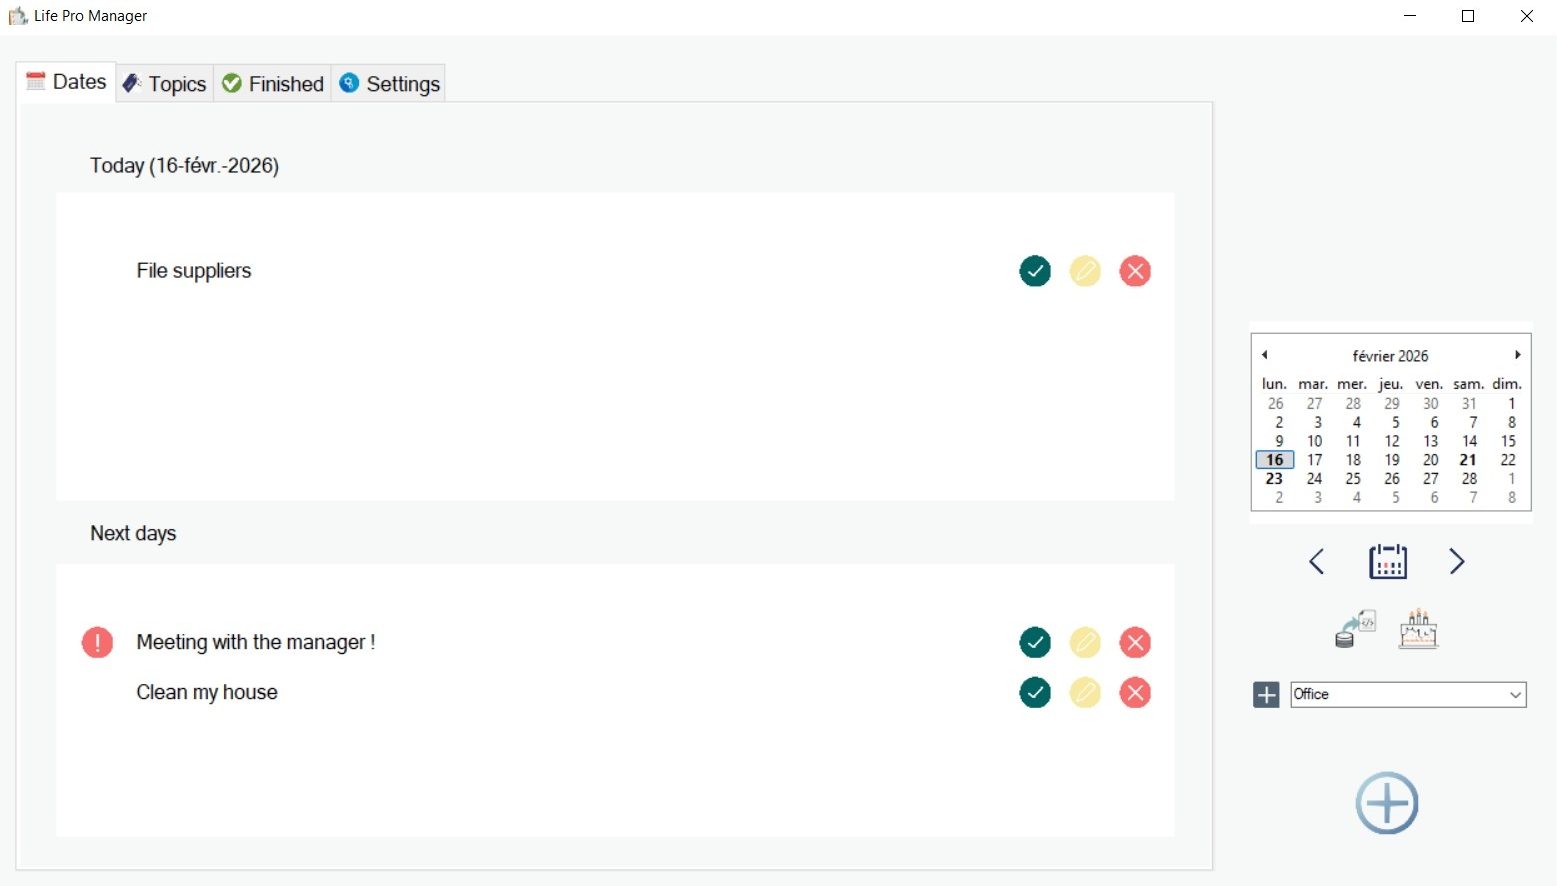
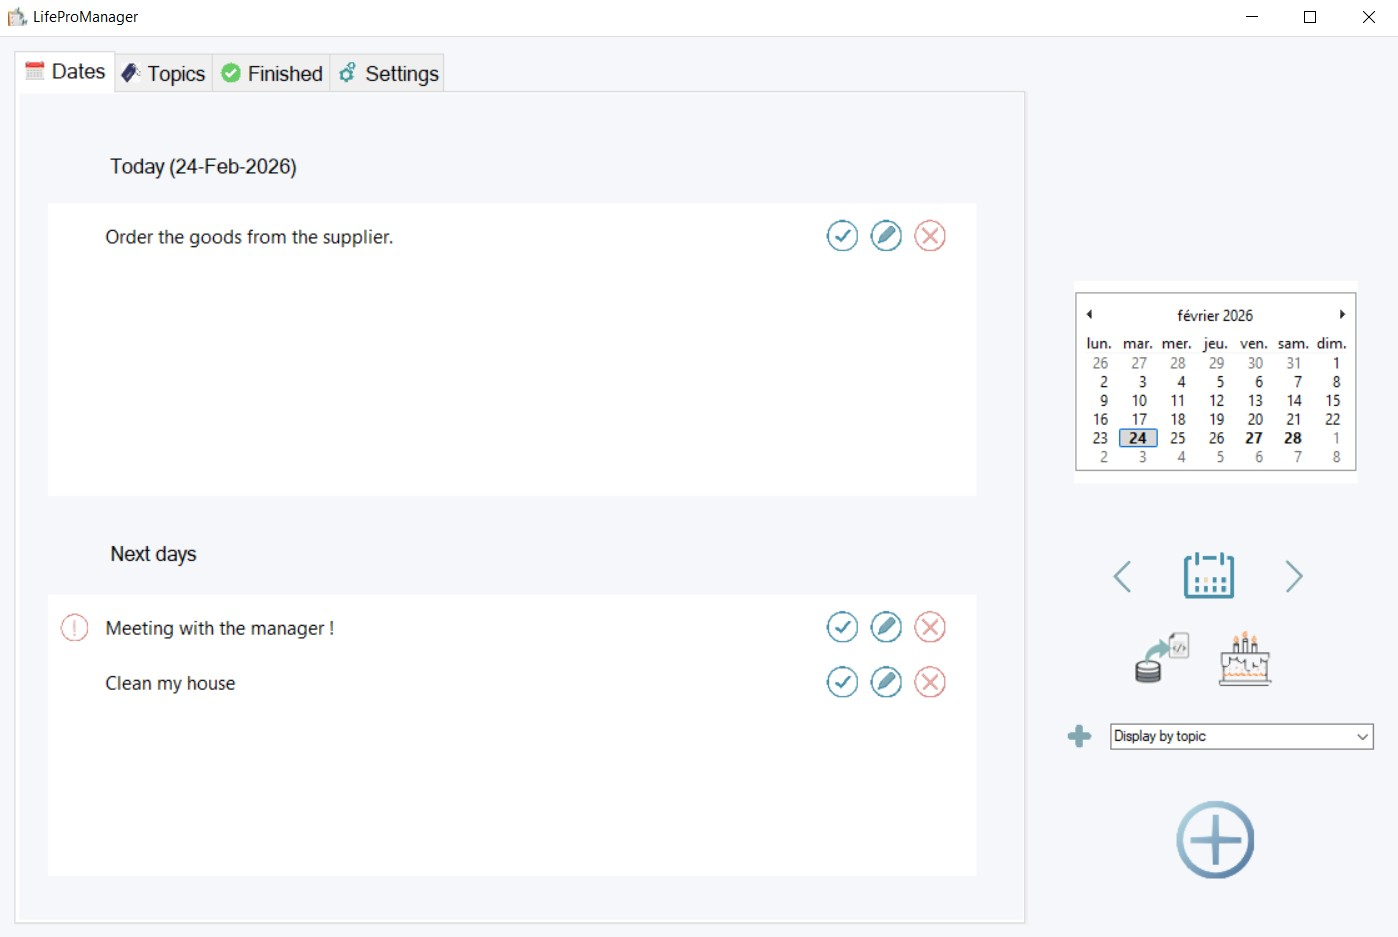
a) rétabli l’apparition des tâches en retard dans le panel Today de l'onglet Dates. b) rétabli l’apparition des anniversaires dans le panel Today et Week (7 jours suivants) c) modernisé les requêtes SQL pour intégrer la logique MM‑DD des anniversaires et inclure les tâches en retard dans le panel To

diff --git a/LifeProManager/frmMain.cs b/LifeProManager/frmMain.cs
@@ -243,6 +243,8 @@ namespace LifeProManager
             string labelText = GetCurrentDateLabel();
             DateTime selectedDate = calMonth.SelectionStart;
 
+            selectedDateTypeTime = selectedDate;
+
             if (labelText == null)
             {
                 // For dates beyond ±2 days: show only the date
@@ -655,16 +657,9 @@ namespace LifeProManager
             calMonth.SetDate(DateTime.Today);
         }
 
-        /// <summary>
-        /// Creates the layout for the tasks in the specified panel depending on the selected layout.
-        /// </summary>
-        /// <param name="tasks"></param>
-        /// <param name="layout"></param>
         public void CreateTasksLayout(List<Tasks> tasks, int layout)
         {
-            // -----------------
             // Layout constants
-            // -----------------
             const int ROW_HEIGHT = 32;
             const int ICON_SIZE = 22;
             const int BUTTON_SIZE = 25;
@@ -673,9 +668,7 @@ namespace LifeProManager
             const int RIGHT_PADDING = 15;
             const int DATE_LABEL_WIDTH = 90;
 
-            // ---------------------
             // Selects target panel
-            // ---------------------
             Panel targetPanel = null;
 
             if (layout == LAYOUT_CURRENT_DATE)
@@ -694,10 +687,6 @@ namespace LifeProManager
             {
                 targetPanel = pnlFinished;
             }
-            else
-            {
-                return;
-            }
 
             if (targetPanel == null)
             {
@@ -707,17 +696,12 @@ namespace LifeProManager
             targetPanel.AutoScroll = false;
             targetPanel.Controls.Clear();
 
-            DateTime selectedDateValue = DateTime.Parse(selectedDate);
             int currentRowTopY = 10;
 
-            // -----------------------
-            // Iterates through tasks
-            // -----------------------
+            // Iterates through tasks (NO FILTERING HERE)
             foreach (Tasks task in tasks)
             {
-                // ----------------
                 // Parses deadline
-                // ----------------
                 DateTime deadline;
                 
                 if (!DateTime.TryParse(task.Deadline, out deadline))
@@ -727,30 +711,7 @@ namespace LifeProManager
 
                 deadline = deadline.Date;
 
-                // ----------------------------------
-                // Filters tasks depending on layout
-                // ----------------------------------
-                if (layout == LAYOUT_CURRENT_DATE)
-                {
-                    if (deadline > selectedDateValue.Date)
-                    {
-                        continue;
-                    }
-                }
-                else if (layout == LAYOUT_PLUS_SEVEN_DAYS)
-                {
-                    DateTime today = selectedDateValue.Date;
-                    DateTime sevenDaysLater = today.AddDays(7);
-
-                    if (!(deadline > today && deadline <= sevenDaysLater))
-                    {
-                        continue;
-                    }
-                }
-
-                // ------------------------------
-                // Creates row panel (container)
-                // ------------------------------
+                // Row container
                 Panel rowPanel = new Panel
                 {
                     Left = 10,
@@ -761,9 +722,7 @@ namespace LifeProManager
                     Anchor = AnchorStyles.Top | AnchorStyles.Left | AnchorStyles.Right
                 };
 
-                // -----------------------------
                 // Right panel (date + buttons)
-                // -----------------------------
                 int rightPanelWidth = DATE_LABEL_WIDTH + (BUTTON_SIZE + HORIZONTAL_GAP) * 3 + RIGHT_PADDING;
 
                 Panel rightPanel = new Panel
@@ -791,28 +750,28 @@ namespace LifeProManager
                 if (layout == LAYOUT_TOPICS)
                 {
                     lblDate.Text = deadline.ToString("yyyy-MM-dd");
+                    lblDate.Top = 7;
                 }
-
                 else if (layout == LAYOUT_DONE && !string.IsNullOrEmpty(task.ValidationDate))
                 {
                     lblDate.Text = task.ValidationDate.Substring(0, 10);
                 }
 
-                // ----------------------
-                // Button factory method
-                // ----------------------
+                // Button factory
                 Button CreateButton(Image imgButton)
                 {
-                    Button button = new Button();
-                    button.Size = new Size(BUTTON_SIZE, BUTTON_SIZE);
-                    button.BackgroundImage = imgButton;
-                    button.BackgroundImageLayout = ImageLayout.Zoom;
-                    button.FlatStyle = FlatStyle.Flat;
-                    button.FlatAppearance.BorderSize = 0;
-                    button.BackColor = Color.Transparent;
-                    button.Top = (ROW_HEIGHT - BUTTON_SIZE) / 2;
-                    button.Anchor = AnchorStyles.Top | AnchorStyles.Right;
-                    return button;
+                    Button buttonForTask = new Button
+                    {
+                        Size = new Size(BUTTON_SIZE, BUTTON_SIZE),
+                        BackgroundImage = imgButton,
+                        BackgroundImageLayout = ImageLayout.Zoom,
+                        FlatStyle = FlatStyle.Flat,
+                        BackColor = Color.Transparent,
+                        Top = (ROW_HEIGHT - BUTTON_SIZE) / 2,
+                        Anchor = AnchorStyles.Top | AnchorStyles.Right
+                    };
+                    buttonForTask.FlatAppearance.BorderSize = 0;
+                    return buttonForTask;
                 }
 
                 Button btnApprove = CreateButton(Properties.Resources.tick_circle);
@@ -820,12 +779,8 @@ namespace LifeProManager
                 Button btnDelete = CreateButton(Properties.Resources.delete_circle);
                 Button btnUnapprove = CreateButton(Properties.Resources.minus_circle);
 
-                // --------------------
-                // Button click events
-                // --------------------
-
-                // Approve task
-                btnApprove.Click += (object sender, EventArgs e) =>
+                // Button events
+                btnApprove.Click += (s, e) =>
                 {
                     string validationDate = DateTime.Today.ToString("yyyy-MM-dd");
                     dbConn.ApproveTask(task.Id, validationDate);
@@ -837,14 +792,12 @@ namespace LifeProManager
                     }
                 };
 
-                // Edit task
-                btnEdit.Click += (object sender, EventArgs e) =>
+                btnEdit.Click += (s, e) =>
                 {
                     new frmEditTask(this, task).ShowDialog();
                 };
 
-                // Delete task
-                btnDelete.Click += (object sender, EventArgs e) =>
+                btnDelete.Click += (s, e) =>
                 {
                     DialogResult result = MessageBox.Show(
                         LocalizationManager.GetString("areYouSureDeleteTheTask"),
@@ -859,16 +812,13 @@ namespace LifeProManager
                     }
                 };
 
-                // Unapprove task (in Done layout)
-                btnUnapprove.Click += (object sender, EventArgs e) =>
+                btnUnapprove.Click += (s, e) =>
                 {
                     dbConn.UnapproveTask(task.Id);
                     LoadTasks();
                 };
 
-                // -------------------------------------
-                // Position buttons depending on layout
-                // -------------------------------------
+                // Button placement
                 int buttonsStartPosX = DATE_LABEL_WIDTH + HORIZONTAL_GAP;
 
                 if (layout == LAYOUT_DONE)
@@ -892,9 +842,7 @@ namespace LifeProManager
 
                 rightPanel.Controls.Add(lblDate);
 
-                // --------------------------
                 // Left panel (icon + title)
-                // --------------------------
                 Panel leftPanel = new Panel
                 {
                     Left = 0,
@@ -914,16 +862,15 @@ namespace LifeProManager
                     BackColor = Color.Transparent
                 };
 
-                if (deadline < selectedDateValue.Date)
-                {
-                    iconBox.BackgroundImage = Properties.Resources.clock;
-                }
-
-                else if (task.Priorities_id == 4)
+                // Icon logic
+                if (task.Priorities_id == 4)
                 {
                     iconBox.BackgroundImage = Properties.Resources.birthday_cake_small;
                 }
-
+                else if (deadline < DateTime.Today)
+                {
+                    iconBox.BackgroundImage = Properties.Resources.clock;
+                }
                 else if (task.Priorities_id % 2 != 0)
                 {
                     iconBox.BackgroundImage = Properties.Resources.important;
@@ -942,38 +889,36 @@ namespace LifeProManager
                     Anchor = AnchorStyles.Top | AnchorStyles.Left | AnchorStyles.Right
                 };
 
+                // Title logic
                 if (task.Priorities_id == 4 && int.TryParse(task.Description, out int birthYear))
                 {
-                    int ageReached = DateTime.Now.Year - birthYear;
-                    lblTitle.Text = task.Title + " (" + ageReached + ")";
+                    int age = DateTime.Now.Year - birthYear;
+                    lblTitle.Text = task.Title + " (" + age + ")";
                 }
                 else
                 {
                     lblTitle.Text = task.Title;
                 }
 
-                // Click events
-                lblTitle.Click += (object sender, EventArgs e) =>
+                // Title events
+                lblTitle.Click += (s, e) =>
                 {
                     selectedTask = task.Id;
                     RefreshSelectedTask();
                 };
 
-                lblTitle.DoubleClick += (object sender, EventArgs e) =>
+                lblTitle.DoubleClick += (s, e) =>
                 {
                     new frmEditTask(this, task).ShowDialog();
                 };
 
-                // -------------------
-                // Adds panels to row
-                // -------------------
+                // Adds panels
                 rowPanel.Controls.Add(leftPanel);
                 rowPanel.Controls.Add(rightPanel);
 
-                // Initial title width based on leftPanel
                 lblTitle.Width = leftPanel.Width - (ICON_SIZE + HORIZONTAL_GAP);
 
-                // Registers this task for selection highlighting
+                // Registers for selection highlighting
                 taskSelection.Add(new TaskSelection
                 {
                     Task_id = task.Id,
@@ -985,9 +930,7 @@ namespace LifeProManager
                 leftPanel.Controls.Add(iconBox);
                 leftPanel.Controls.Add(lblTitle);
 
-                // -------------------------
-                // Adds row to target panel
-                // -------------------------
+                // Adds row to panel
                 targetPanel.Controls.Add(rowPanel);
 
                 currentRowTopY += ROW_HEIGHT + VERTICAL_GAP;

diff --git a/LifeProManager/DBConnection.cs b/LifeProManager/DBConnection.cs
@@ -379,10 +379,16 @@ namespace LifeProManager
         /// </summary>
         /// <returns>Taskslist containing the result of the request</returns>
         /// <param name="deadline">The date whose tasks are to be read</param>
-        public List<Tasks> ReadTaskForDate(string deadline)
+        public List<Tasks> ReadTaskForDate(string selectedDate)
         {
-            // Since we only want the status "To complete" (1) we add it here in the condition
-            return ReadTask("WHERE deadline = '" + deadline + "' AND Status_id = 1 ORDER BY Priorities_id DESC;");
+            return ReadTask(
+                "WHERE Status_id = 1 " +
+                "AND (" +
+                "    deadline <= '" + selectedDate + "' " + // overdue + today tasks
+                "    OR (Priorities_id = 4 AND SUBSTR(deadline, 6, 5) = SUBSTR('" + selectedDate + "', 6, 5))" + // birthdays tasks
+                ") " +
+                "ORDER BY Priorities_id DESC;"
+            );
         }
 
         /// <summary>
@@ -390,10 +396,28 @@ namespace LifeProManager
         /// </summary>
         /// <returns>Taskslist containing the result of the request</returns>
         /// <param name="deadline">The date whose tasks are to be read</param>
-        public List<Tasks> ReadTaskForDatePlusSeven(string[] deadline)
+        public List<Tasks> ReadTaskForDatePlusSeven(string[] nextSevenDays)
         {
-            //Since we only want the status "To complete" (1), we add it here in the condition
-            return ReadTask("WHERE deadline IN ('" + deadline[0] + "', '" + deadline[1] + "', '" + deadline[2] + "', '" + deadline[3] + "', '" + deadline[4] + "', '" + deadline[5] + "', '" + deadline[6] + "') AND Status_id = 1 ORDER BY Priorities_id DESC;");
+            return ReadTask(
+                "WHERE Status_id = 1 " +
+                "AND (" +
+                "    deadline IN ('" + nextSevenDays[0] + "', '" + nextSevenDays[1] + "', '" + nextSevenDays[2] + "', '" +
+                                 nextSevenDays[3] + "', '" + nextSevenDays[4] + "', '" + nextSevenDays[5] + "', '" + nextSevenDays[6] + "') " +
+                "    OR (" +
+                "        Priorities_id = 4 " + // birthdays tasks
+                "        AND SUBSTR(deadline, 6, 5) IN (" +
+                "            SUBSTR('" + nextSevenDays[0] + "', 6, 5), " +
+                "            SUBSTR('" + nextSevenDays[1] + "', 6, 5), " +
+                "            SUBSTR('" + nextSevenDays[2] + "', 6, 5), " +
+                "            SUBSTR('" + nextSevenDays[3] + "', 6, 5), " +
+                "            SUBSTR('" + nextSevenDays[4] + "', 6, 5), " +
+                "            SUBSTR('" + nextSevenDays[5] + "', 6, 5), " +
+                "            SUBSTR('" + nextSevenDays[6] + "', 6, 5)" +
+                "        )" +
+                "    )" +
+                ") " +
+                "ORDER BY Priorities_id DESC;"
+            );
         }
 
         /// <summary>
